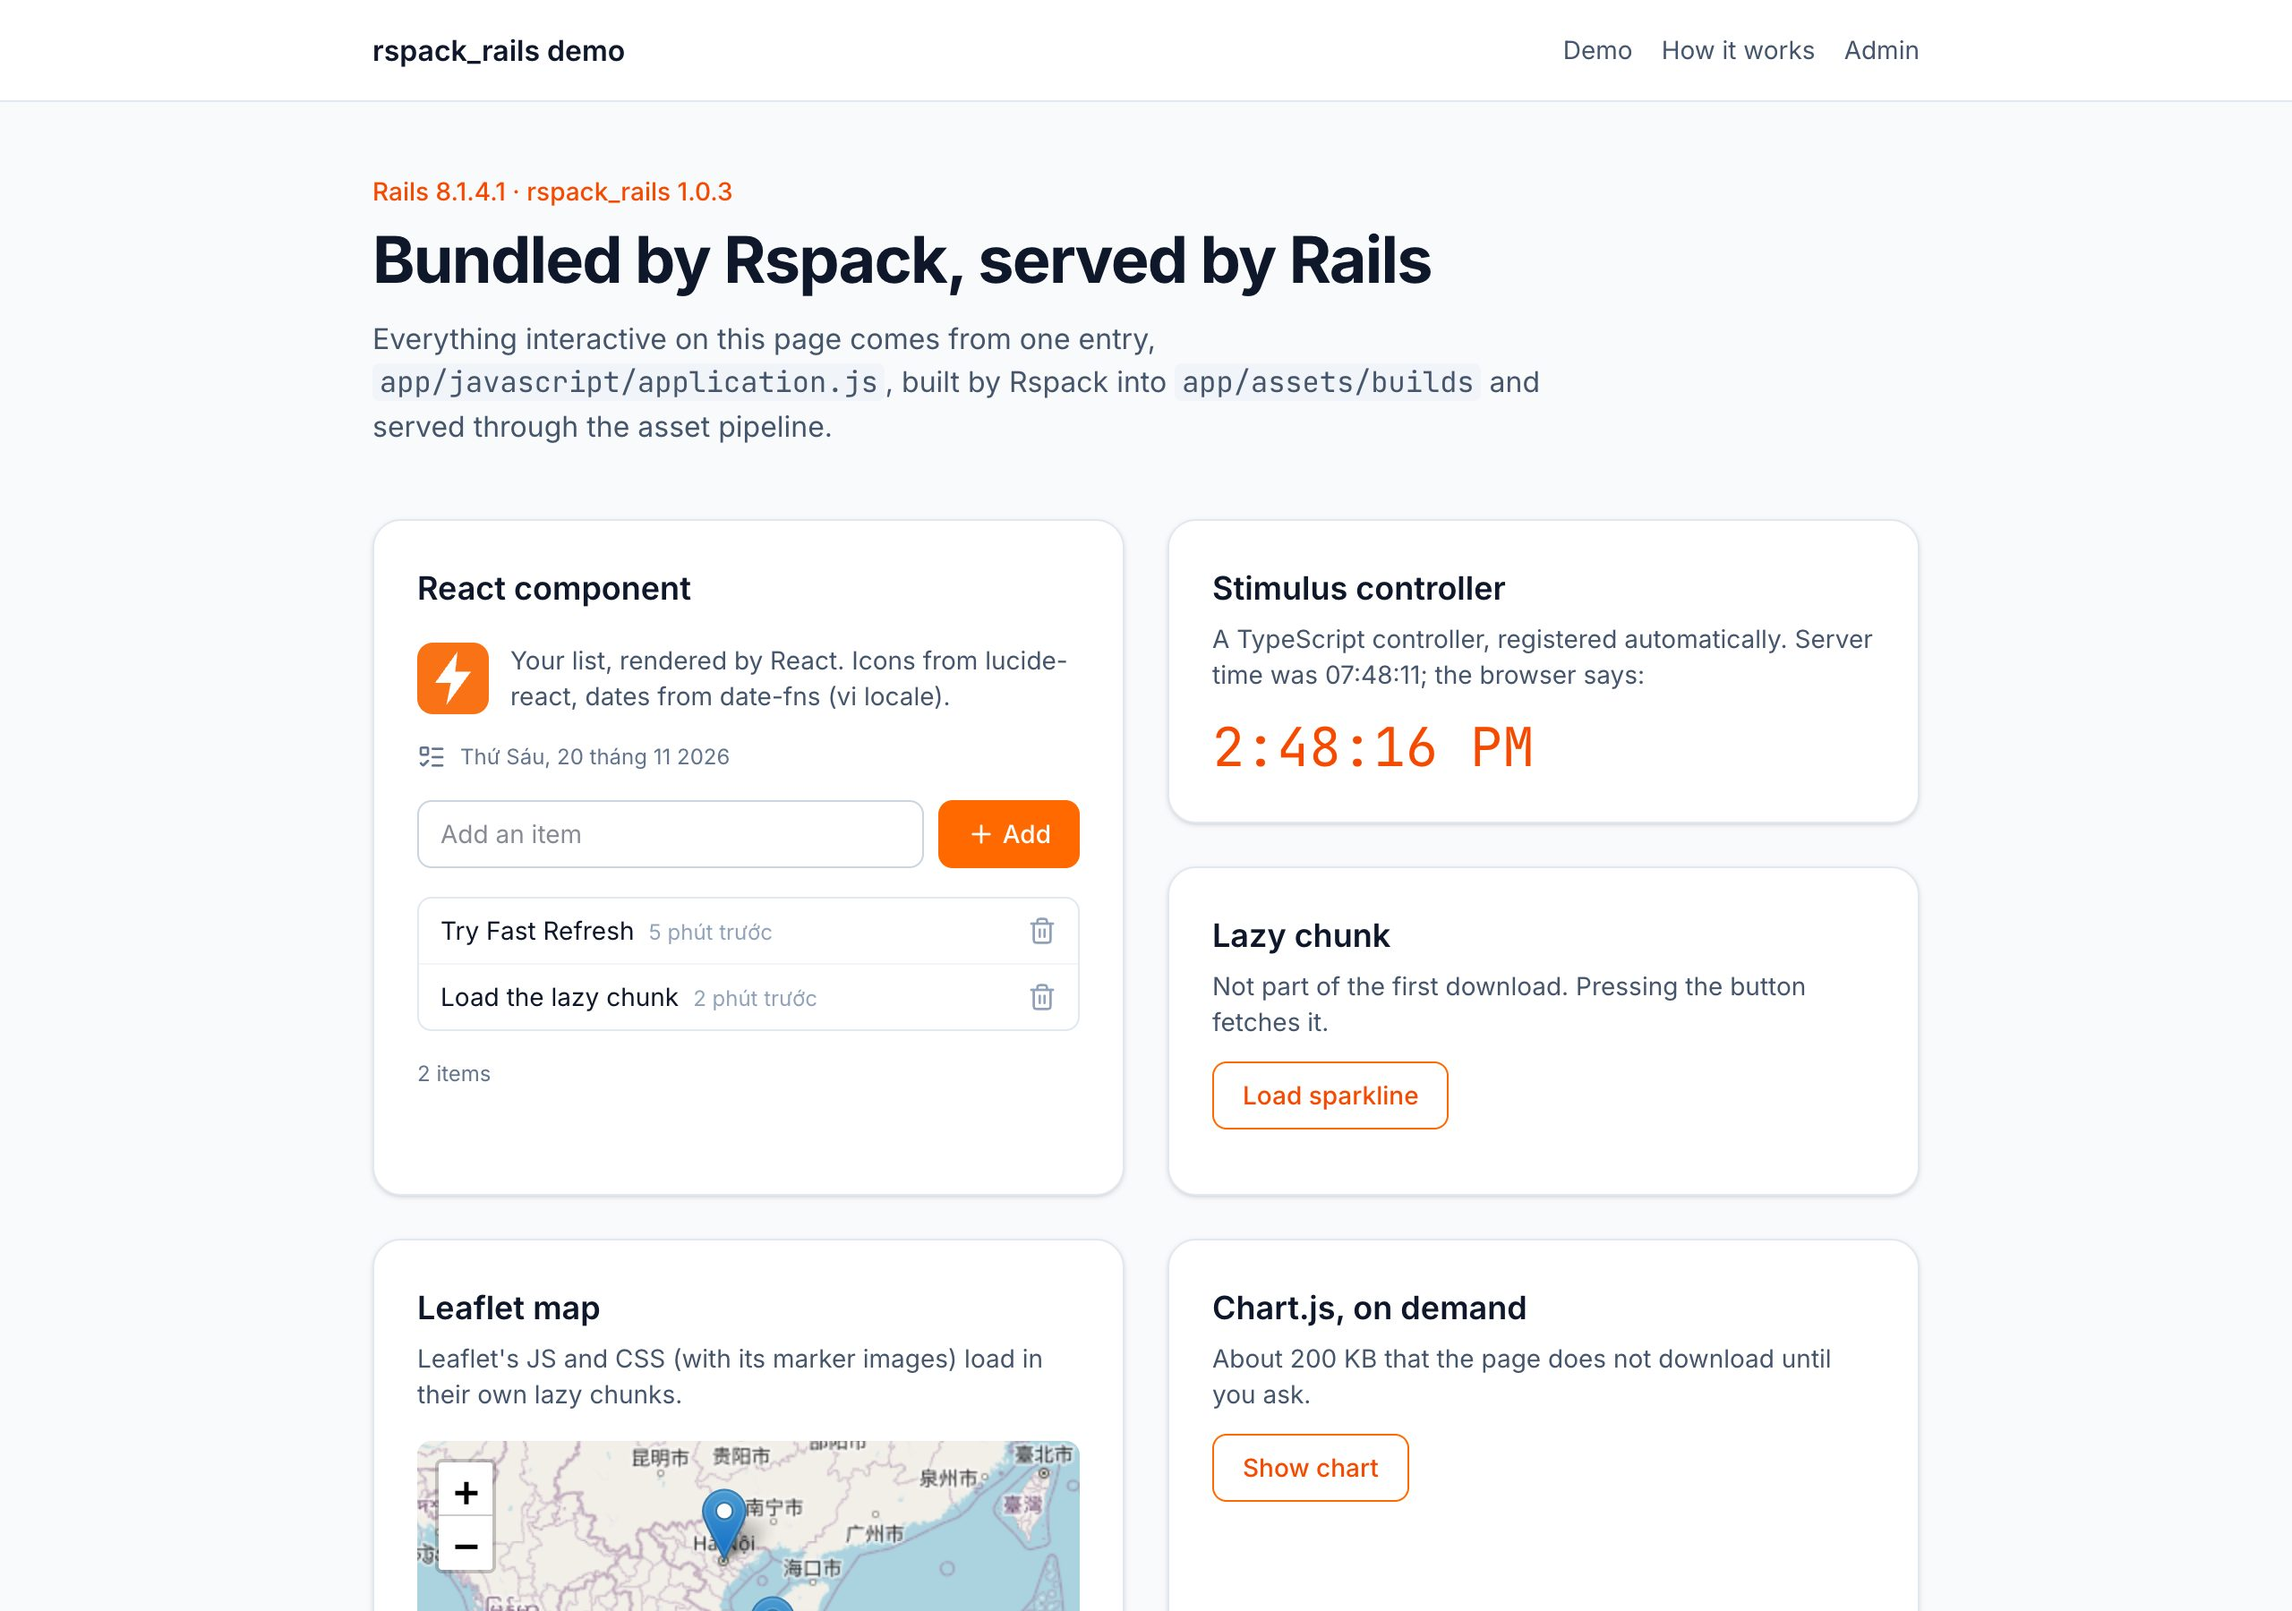
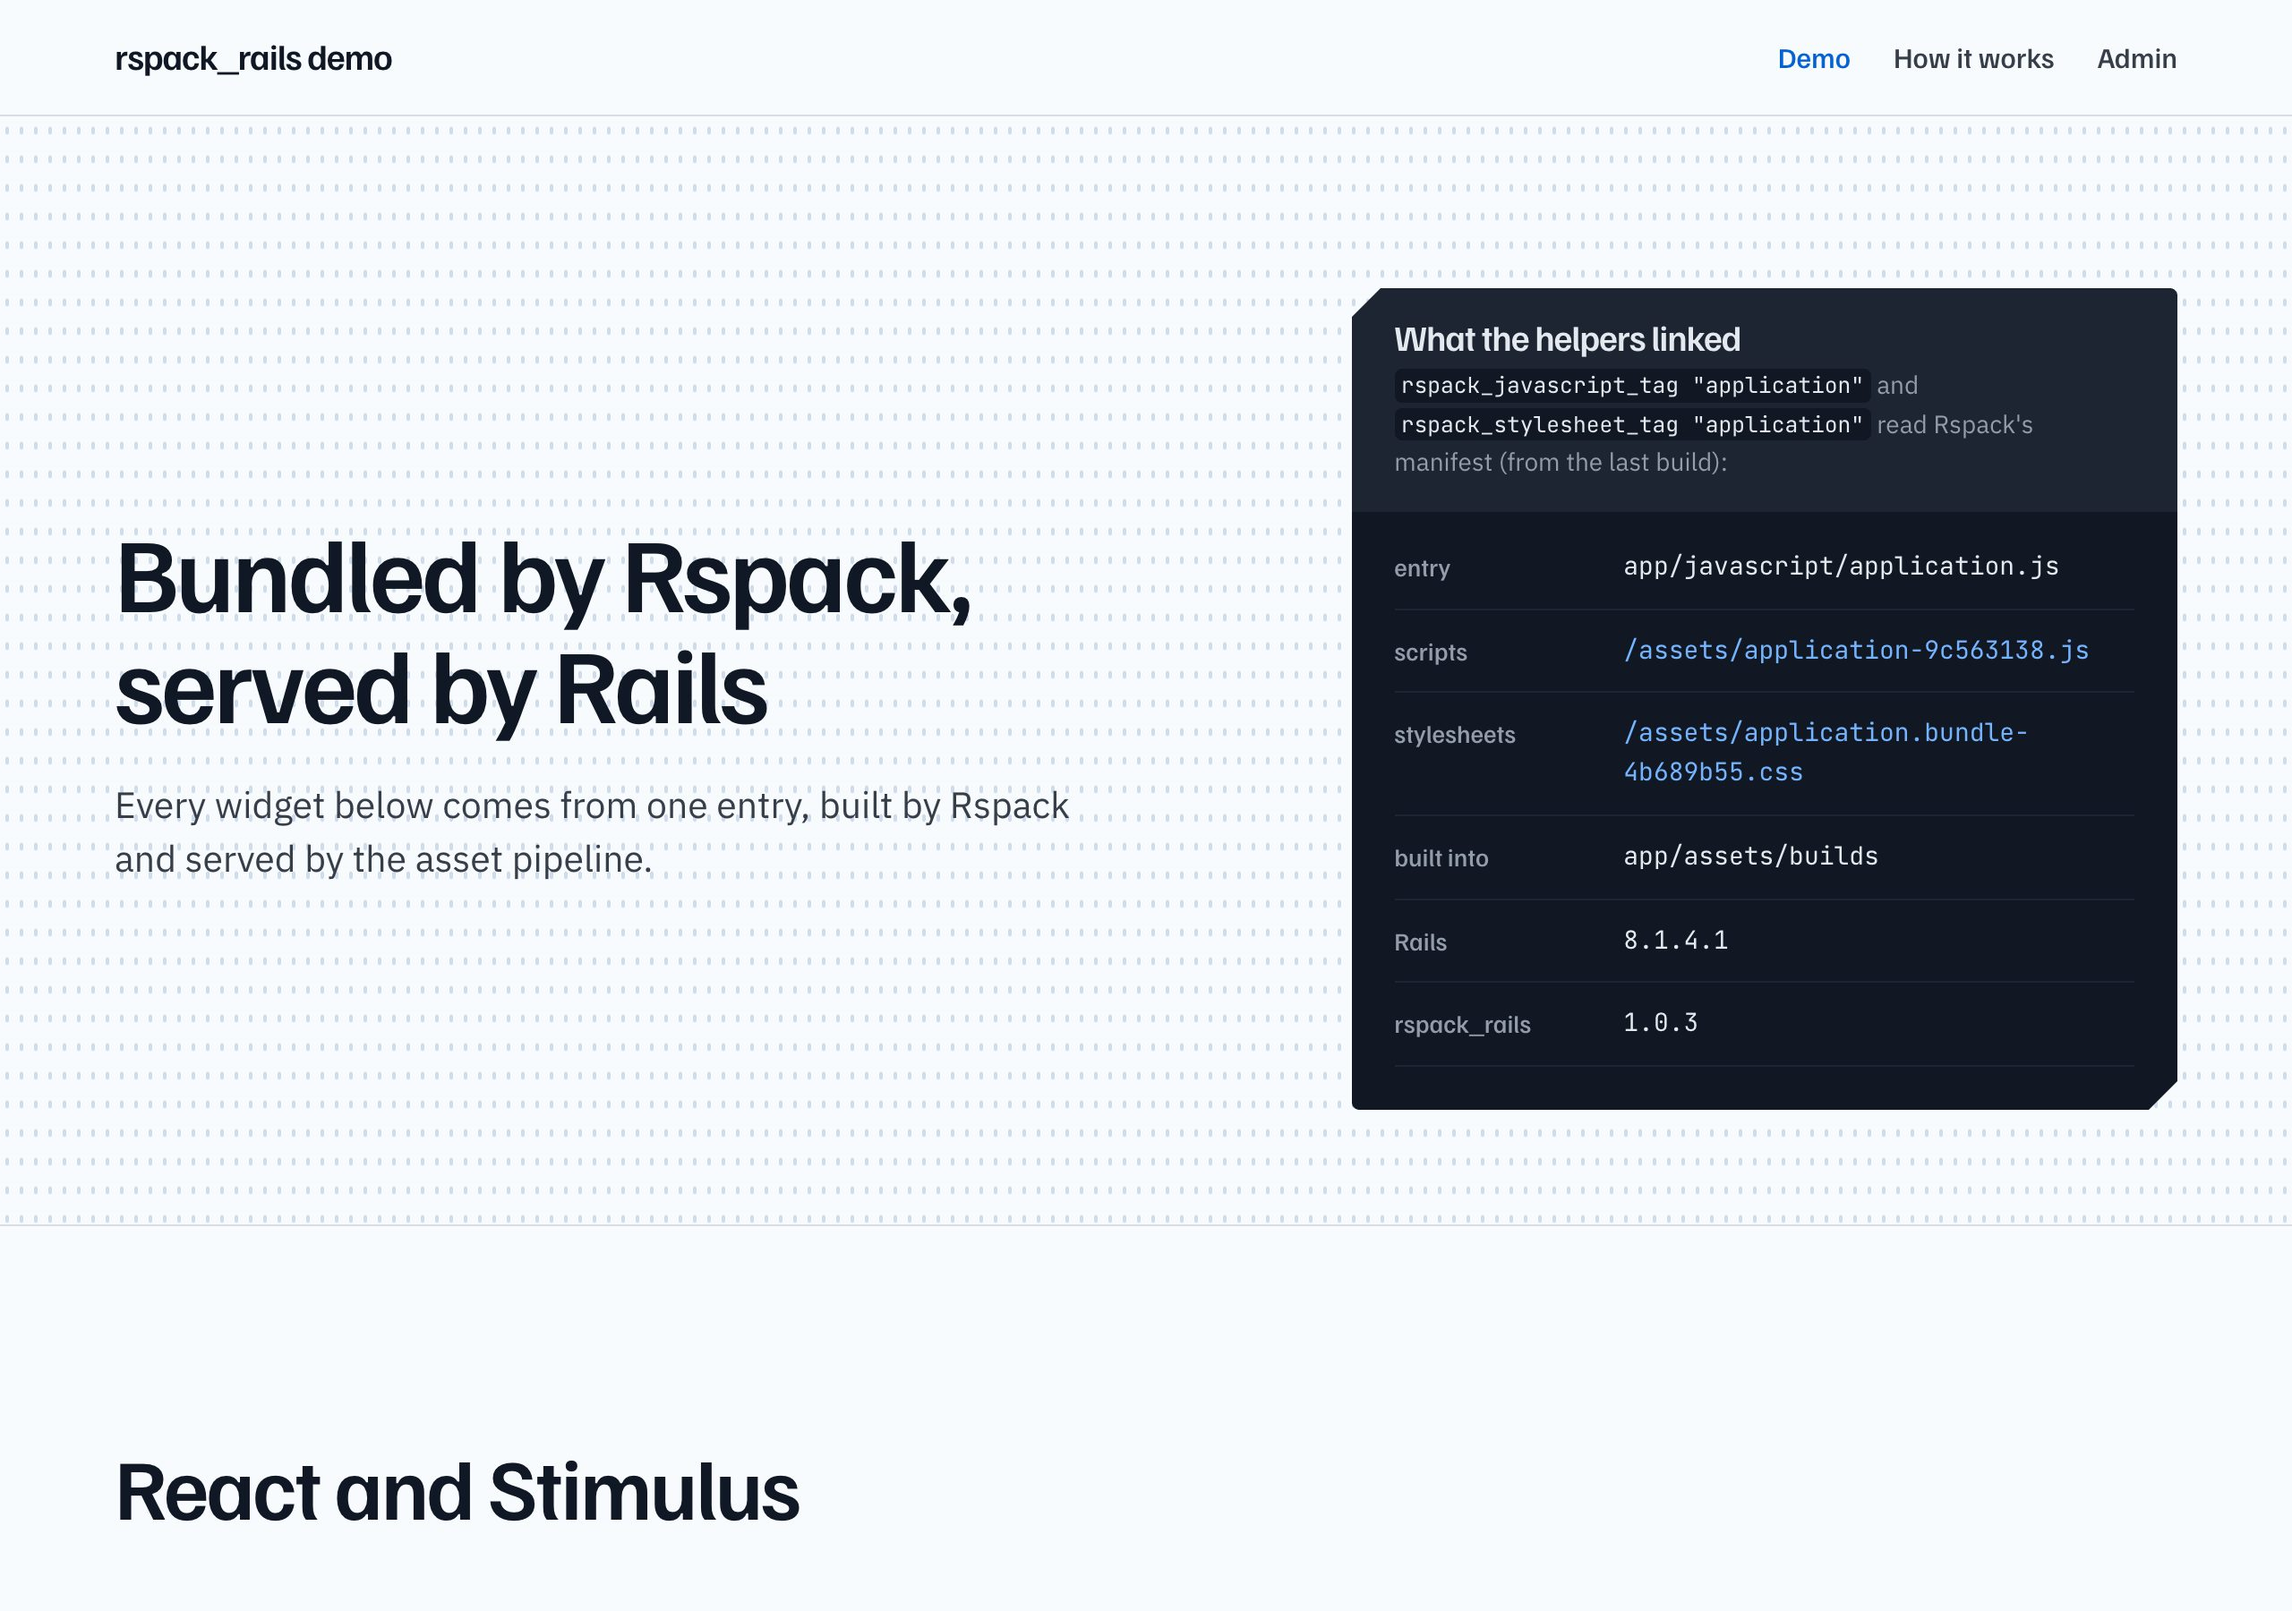
Show the redesigned demo on the site
New screenshots of the live demo (home, Web Worker, /admin) and the
figures they show: 574 ms in the worker, 1.28 KB for admin.js.

diff --git a/site/index.html b/site/index.html
@@ -219,22 +219,22 @@ Run bin/dev to start.</code></pre>
           <p class="lead">React, CSS modules, a Web Worker and Turbo Streams, deployed with Kamal. <a class="link" href="https://52-65-113-251.sslip.io">Open it</a> or <a class="link" href="https://github.com/tungnt1203/rspack_rails-demo">read its source</a>.</p>
         </div>
         <figure class="shot shot--lead">
-          <div class="frame" data-slot="demo-home" data-kind="product" data-alt="The demo app's home page: a React list, a Stimulus clock and lazy chunks">
-            <img src="media/demo-home.jpg" width="2560" height="1800" loading="lazy" alt="The demo app's home page with a React list, a Stimulus clock, a lazy chunk and a Leaflet map">
+          <div class="frame" data-slot="demo-home" data-kind="product" data-alt="The demo app's home page: the heading beside the manifest panel">
+            <img src="media/demo-home.jpg" width="2560" height="1800" loading="lazy" alt="The demo app's home page: its heading beside the manifest the helpers read, with the hashed script and stylesheet">
           </div>
         </figure>
         <div class="shots">
           <figure class="shot">
             <div class="frame frame--wide" data-slot="demo-worker" data-kind="product" data-alt="The Web Worker section after a run">
-              <img src="media/demo-worker.jpg" width="1728" height="736" loading="lazy" alt="A histogram of thirty million samples built in a Web Worker">
+              <img src="media/demo-worker.jpg" width="2304" height="984" loading="lazy" alt="A histogram of thirty million samples built in a Web Worker">
             </div>
-            <figcaption>Thirty million samples in a Web Worker, 565 ms, and the page keeps moving.</figcaption>
+            <figcaption>Thirty million samples in a Web Worker, 574 ms, and the page keeps moving.</figcaption>
           </figure>
           <figure class="shot">
             <div class="frame frame--wide" data-slot="demo-admin" data-kind="product" data-alt="The admin page comparing its bundle with the home page's">
-              <img src="media/demo-admin.jpg" width="1920" height="800" loading="lazy" alt="The admin page: application.js at 440 KB beside admin.js at 1.33 KB">
+              <img src="media/demo-admin.jpg" width="2560" height="1018" loading="lazy" alt="The admin page: application.js at 439 KB beside admin.js at 1.28 KB">
             </div>
-            <figcaption>/admin links its own entry: 1.33 KB of JavaScript.</figcaption>
+            <figcaption>/admin links its own entry: 1.28 KB of JavaScript.</figcaption>
           </figure>
         </div>
       </div>
